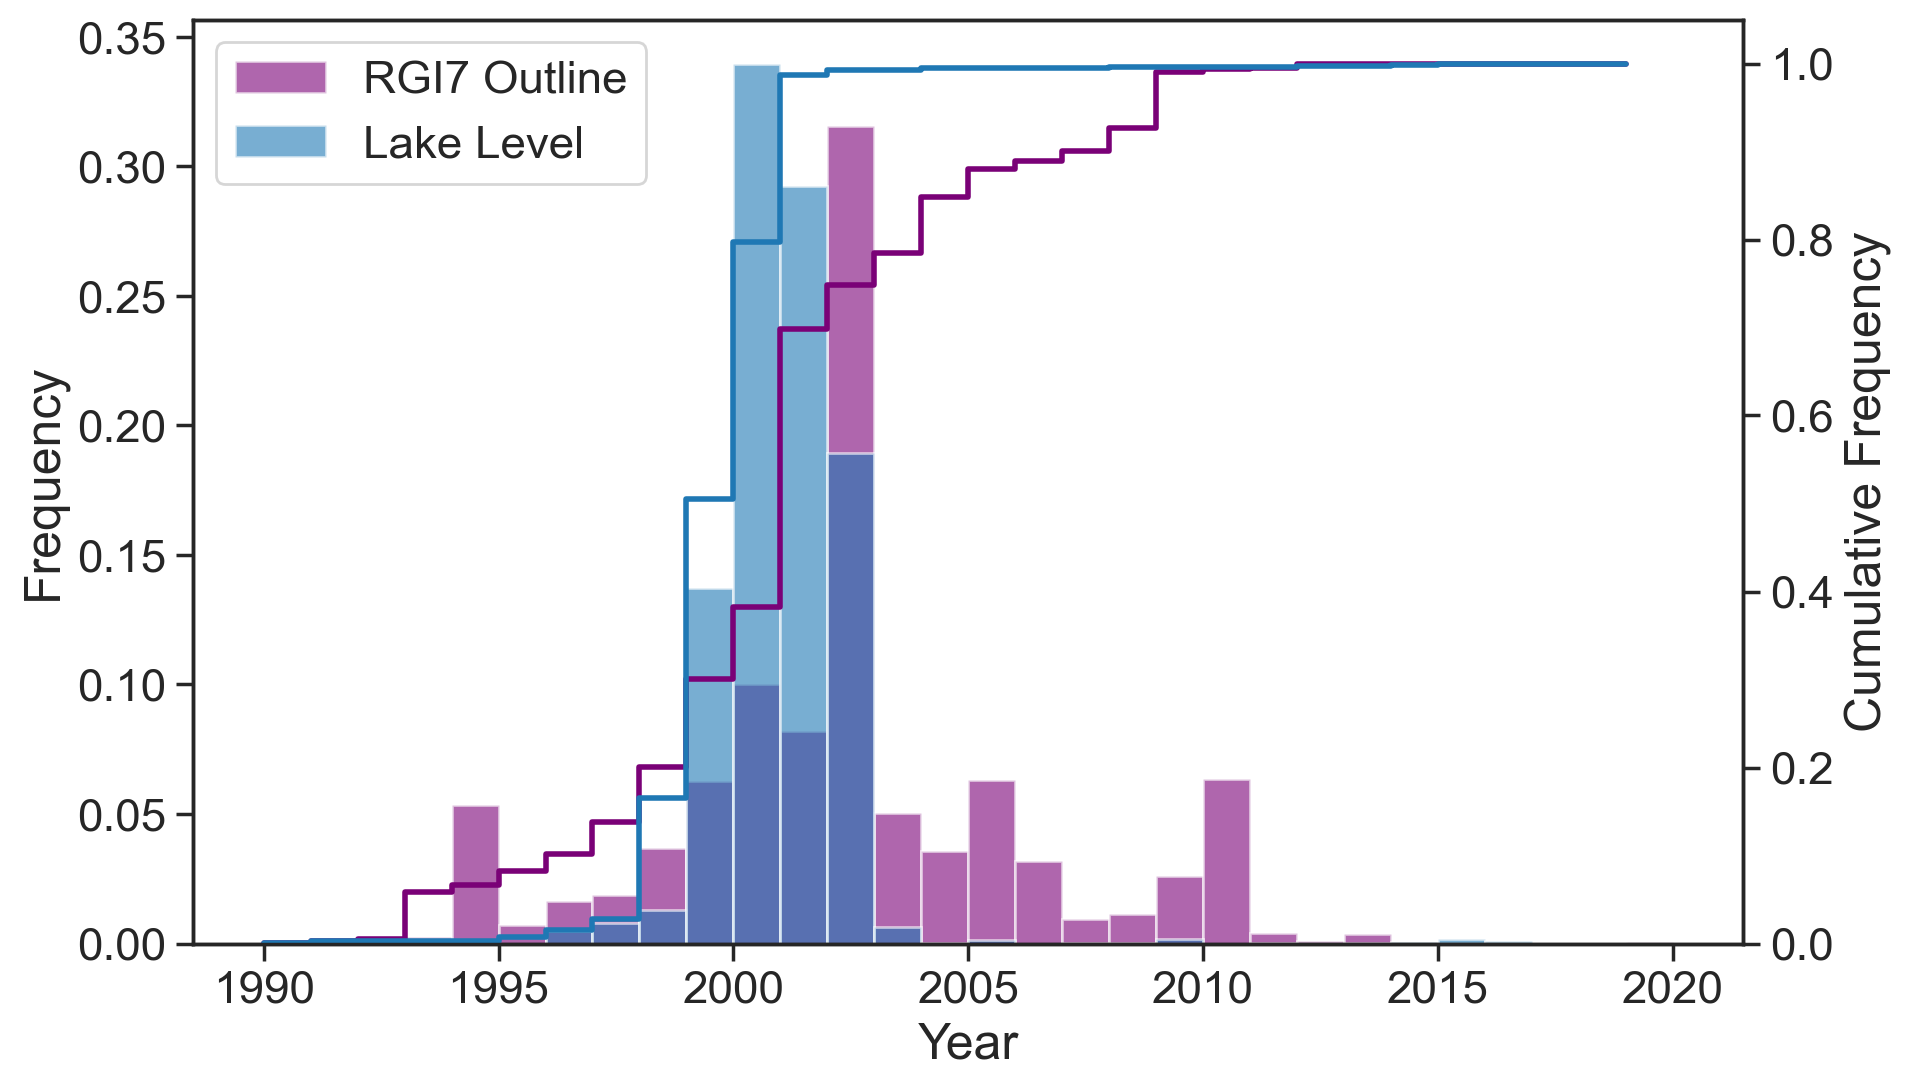
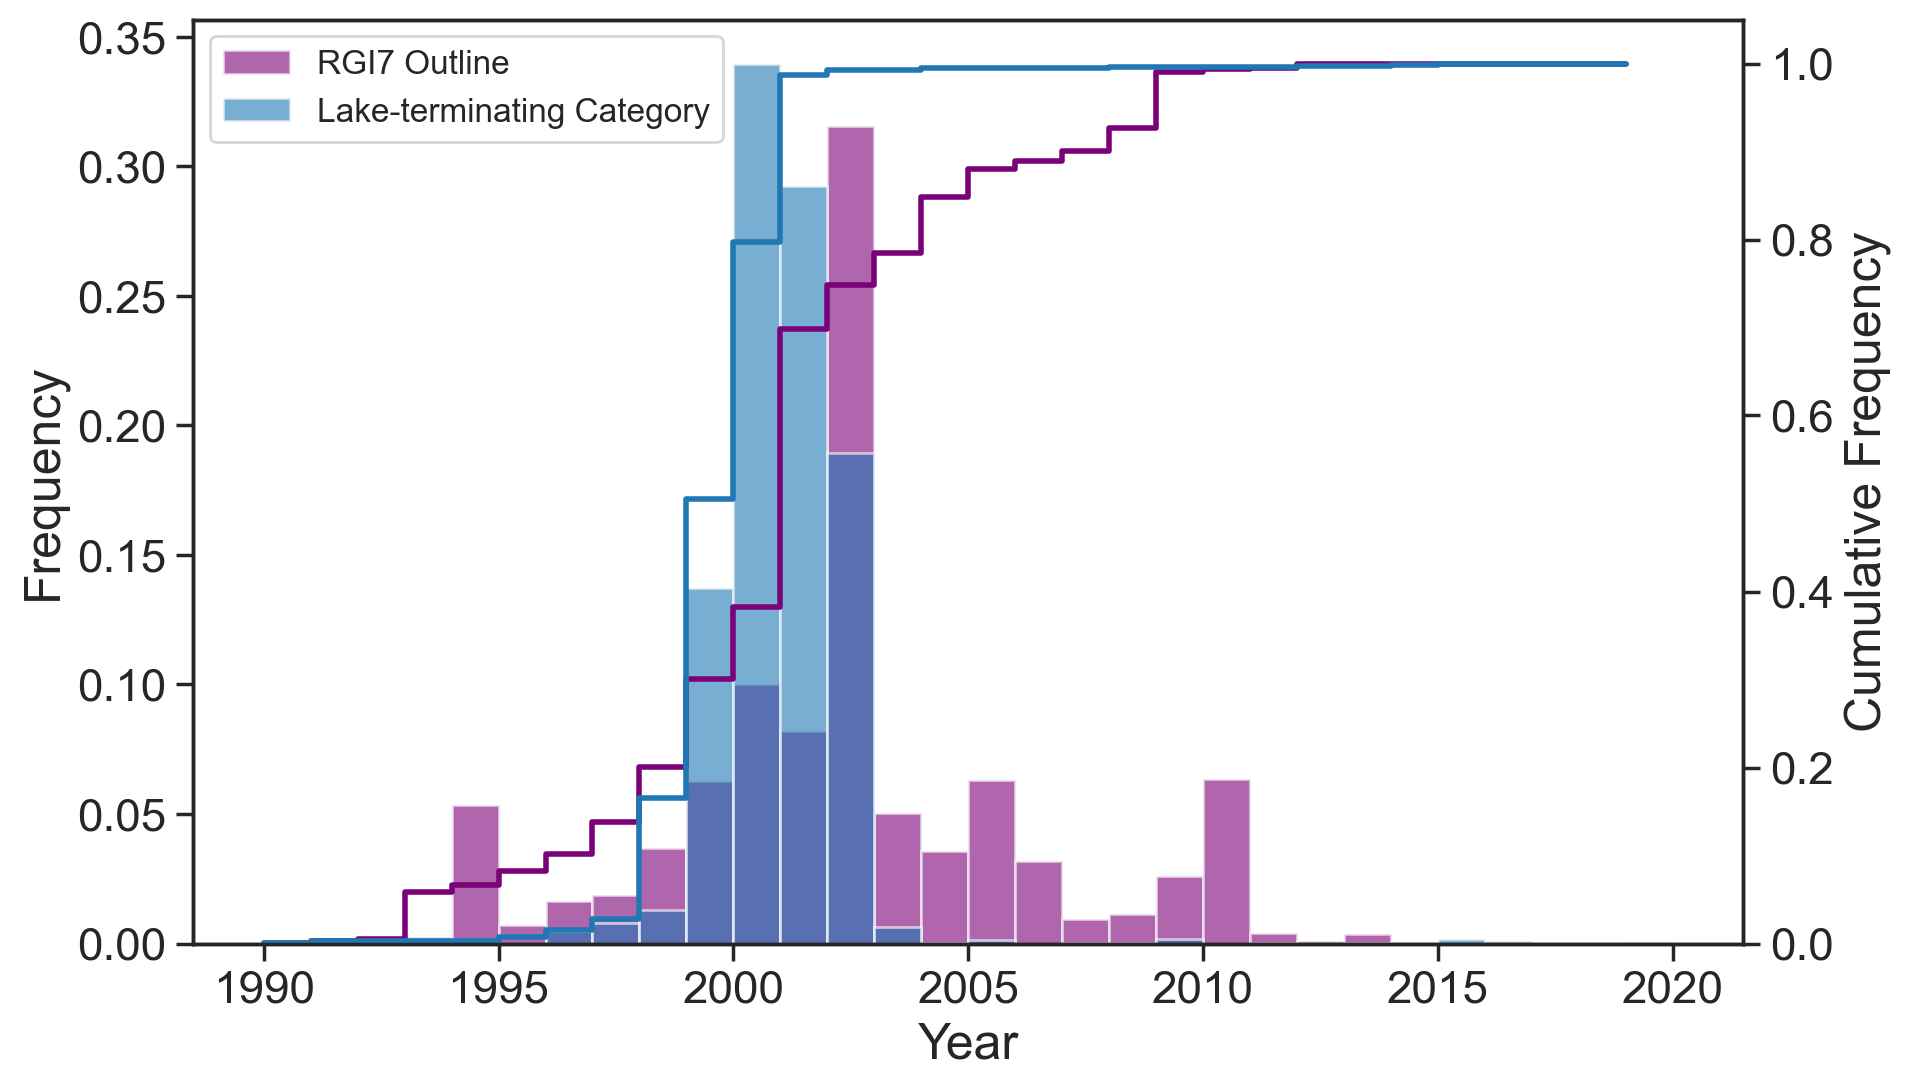
update figure 8
- change legend label to 'category'
- decrease font size

Changed region(s): [[0.0926, 0.0312, 0.3705, 0.1562]]

diff --git a/essd/scripts/Fig8_TemporalDistribution.py b/essd/scripts/Fig8_TemporalDistribution.py
@@ -49,12 +49,12 @@ ax2 = ax.twinx()
 ax.hist(outlines['src_date'].dt.year, bins, density=True, label='RGI7 Outline', color='#7a0177', alpha=0.6)
 ax.hist(lake_flags['image_date'].dt.year, bins, density=True,
         #label=f"Lake Level ({100*ptag:.2f}%)", color='#1f78b4', alpha=0.6)
-        label=f"Lake Level", color='#1f78b4', alpha=0.6)
+        label=f"Lake-terminating Category", color='#1f78b4', alpha=0.6)
 
 ax2.step(np.array(bins[:-1]), out_freq, label='RGI7 Outline', color='#7a0177', lw=2)
 ax2.step(np.array(bins[:-1]), lake_freq, label='RGI7 Outline', color='#1f78b4', lw=2)
 
-ax.legend(loc='upper left')
+ax.legend(loc='upper left', fontsize=12)
 ax.set_xlabel('Year')
 ax.set_ylabel('Frequency')
 
